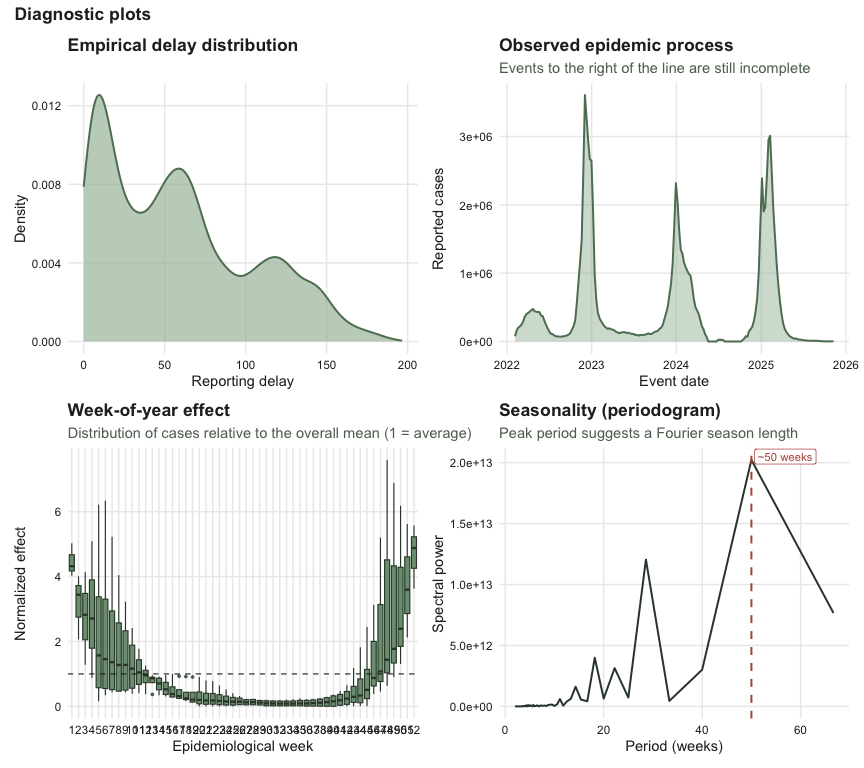
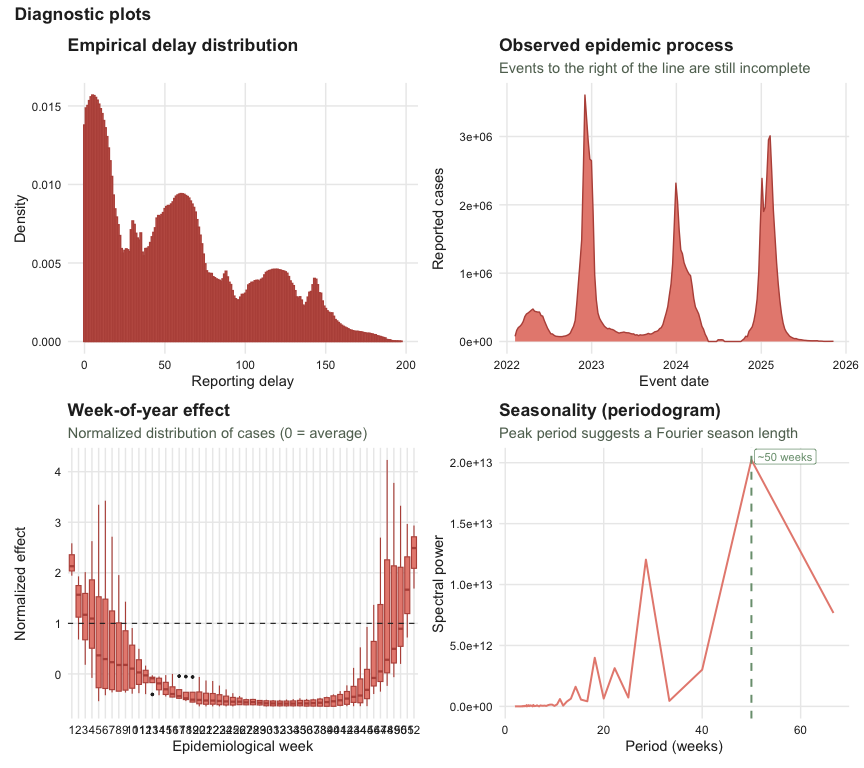
Mark functions experimental, tweak autoplot visuals
Add lifecycle 'experimental' badges to several R functions and corresponding man pages. Update DESCRIPTION to suggest epidist and epinowcast and add an Additional_repositories entry; import ggplot2::autoplot in NAMESPACE. Revise autoplot implementation: change default level to 1, alter delay distribution rendering and panel colours, normalize calendar effects using mean/sd, and tweak annotations/geom parameters. Add branding assets (logo SVG/PNG, hex sticker script, inst figure, and pkgdown favicons) and update README to include the package logo.

diff --git a/README.md b/README.md
@@ -1,7 +1,7 @@
 
 <!-- README.md is generated from README.Rmd. Please edit that file -->
 
-# Tibble now (tbl.now)
+# Tibble now (tbl.now) <a href="https://rodrigozepeda.github.io/tbl.now/"><img src="man/figures/logo.png" align="right" height="139" alt="tbl.now website" /></a>
 
 <!-- badges: start -->
 
@@ -291,10 +291,10 @@ library(patchwork)
 data("flusight")
 
 flusight_now <- tbl_now(flusight,
-                      event_date  = target_end_date,
-                      report_date = as_of,
-                      case_count = observation,
-                      verbose     = FALSE)
+                        event_date  = target_end_date,
+                        report_date = as_of,
+                        case_count  = observation,
+                        verbose     = FALSE)
 
 autoplot(flusight_now, level = 1)
 ```
